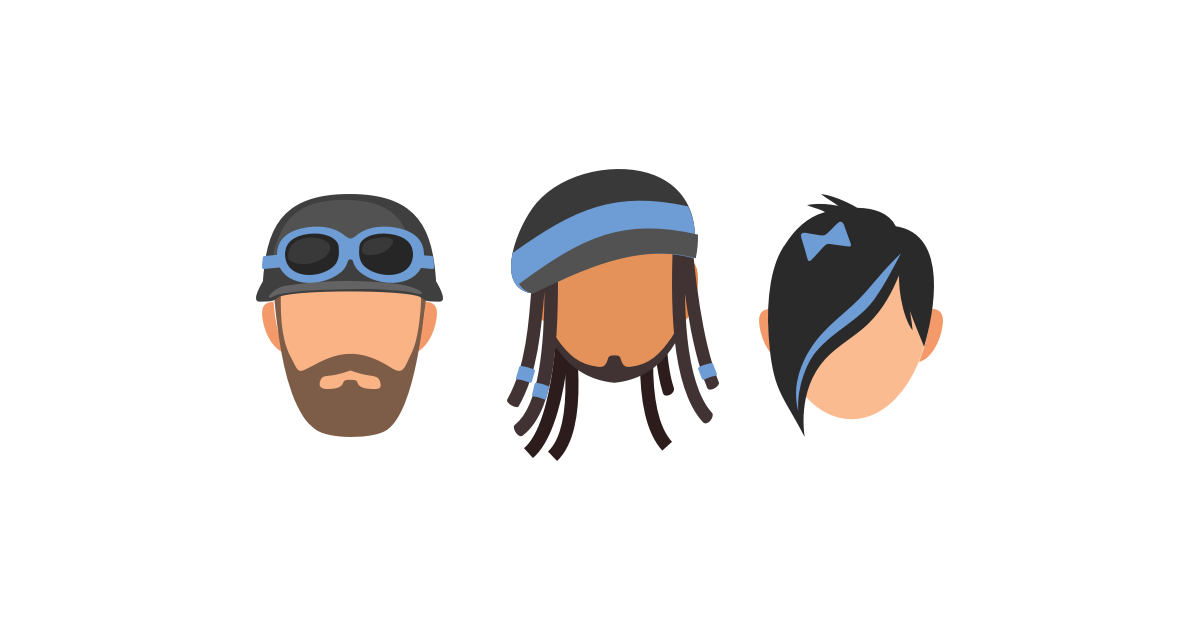
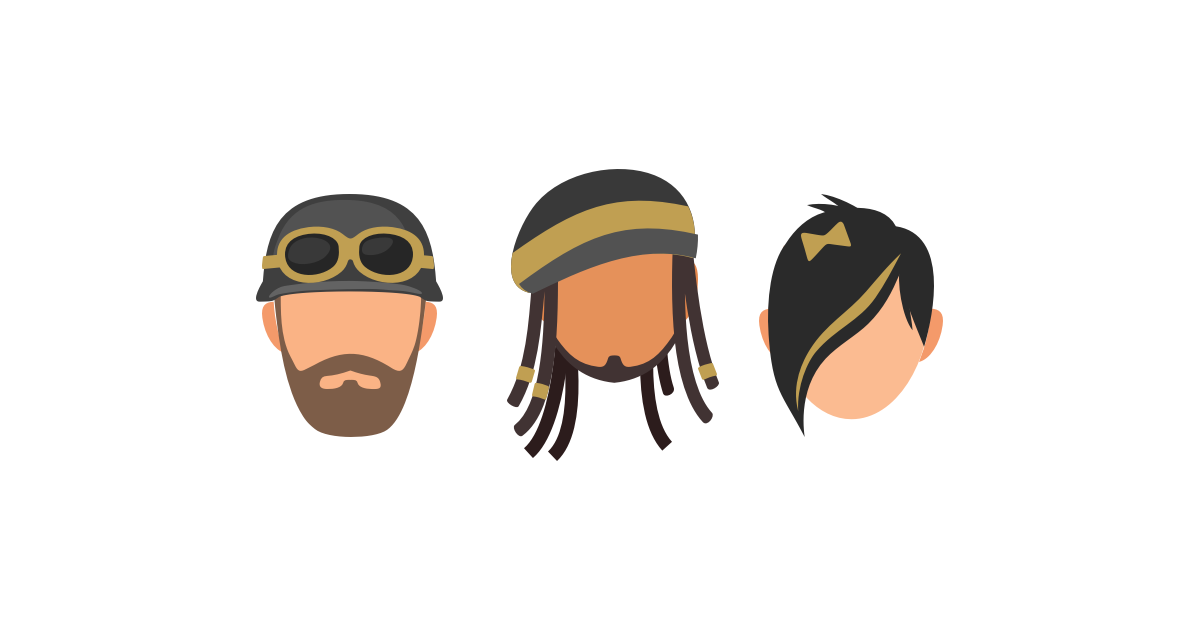
Open AI Images

diff --git a/gatsby/src/config.ts b/gatsby/src/config.ts
@@ -8,13 +8,13 @@ export const glConfig: ConfigShape = {
     siteUrl: "https://goldlabel-open-source.web.app/",
     siteFacebook: "https://www.facebook.com/listingslabspage",
     siteKeywords: "listingslab, goldlabel, opensource, fullstack, react, javascript, node, pwa, free, github",
-    siteImage: "/png/goldlabel.png",
+    siteImage: "/png/everybody.png",
     siteIcon: "/svg/iOS.svg",
     siteTwitter: "@listingslab",
     siteTheme: "#22939C",
     theme: {
-        primaryColor: "#22939C",
-        secondaryColor: "#126970",
+        primaryColor: "#C09F52",
+        secondaryColor: "#DBB14D",
         defaultDarkmode: false,
     },
     mapbox: {

diff --git a/gatsby/src/styles.css b/gatsby/src/styles.css
@@ -1,13 +1,13 @@
-a { color: #22939C; text-decoration: none; cursor: pointer; }
-a:hover { color: #126970; }
+a { color: #C09F52; text-decoration: none; cursor: pointer; }
+a:hover { color: #DBB14D; }
 blockquote {
-  border-left: 3px solid #22939C;
+  border-left: 3px solid #C09F52;
   margin: 0;
   padding: 0;
   padding-left: 16px;
 }
 html {
-  --thumbBG: #22939C;
+  --thumbBG: #C09F52;
   --scrollbarBG: none;
 }
 pre {

diff --git a/gatsby/src/markdown/docs/plugins/_plugins.md b/gatsby/src/markdown/docs/plugins/_plugins.md
@@ -6,12 +6,12 @@ title: "Plugins"
 description: "Modular additions to a Gatsby & React"
 category: "plugins"
 icon: "doc"
-image: "/png/goldlabel.png"
+image: "/png/OpenAI.png"
 keywords: "goldlabel, plugins, product, pwa, Static Site Generation, SSR, free"
 hideImage: true
 twitter: "@listingslab"
 ---
-Modular additions to a Gatsby/NextJS static site generating frontend developed by Listingslab. To use them you need to install them carefully into your project and update them periodically. This is the stuff which is not Open Source. If you a legit developer, you are welcome to acccess. The only reason it isn't yet Open Source is because it's not cleaned up, bullet proof and easily installable.
+> Modular additions to a Gatsby/NextJS static site generating frontend developed by Listingslab. To use them you need to install them carefully into your project and update them periodically. This is the stuff which is not Open Source. If you are a legit developer you are welcome to acccess thje code. The only reason it isn't yet Open Source is because it's not cleaned up, bullet proof and easily installable.
 
 #### Search Engine Visibility
 
